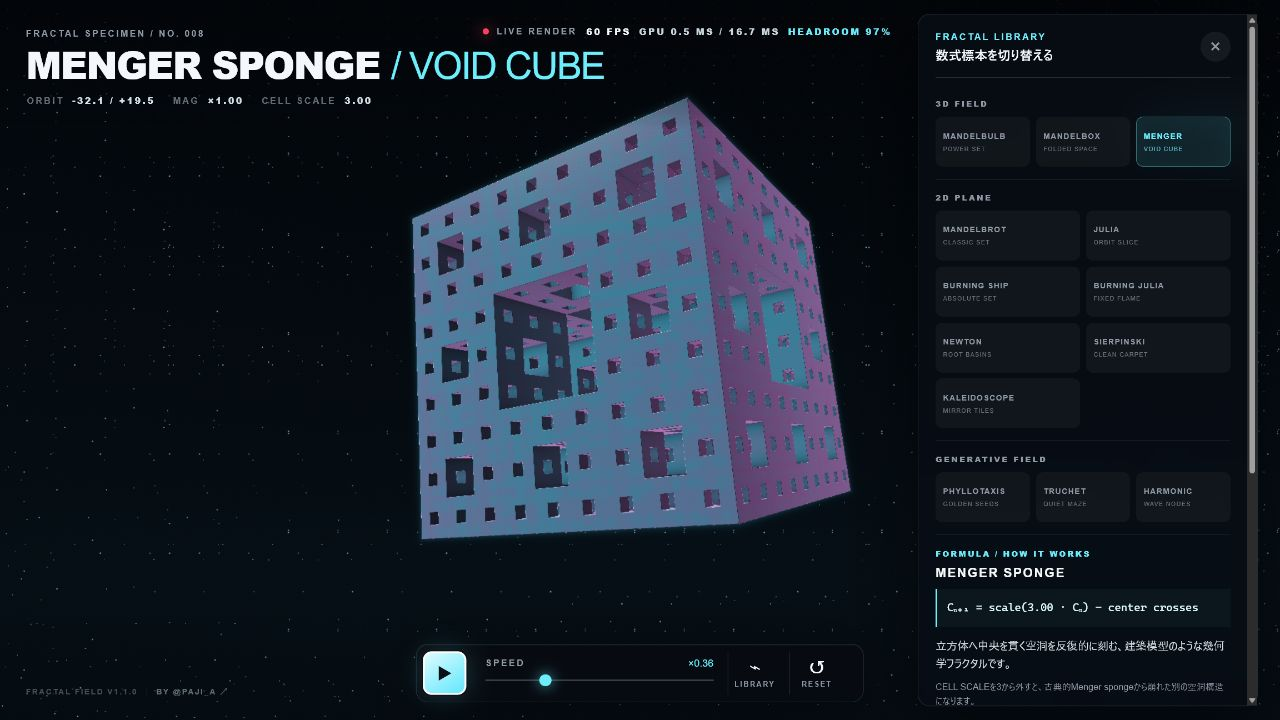
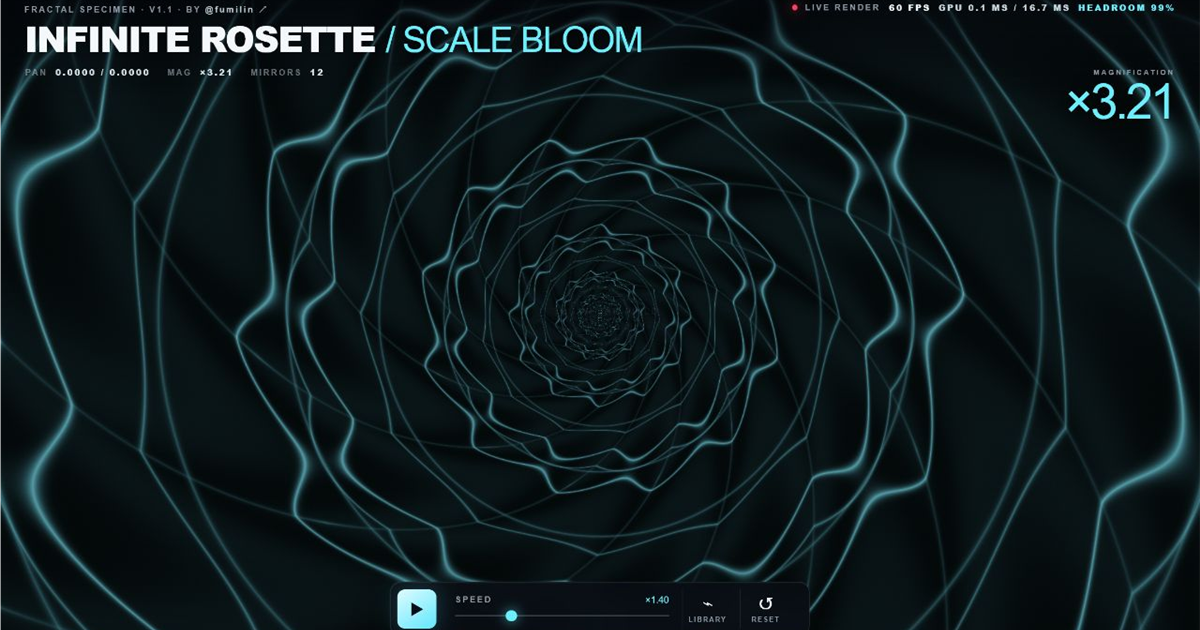
mandelbulb: 無限ズーム・カレイドスコープを追加
半径の対数を周期化することで、一定倍率ごとに構造が回転しながら再帰するINFINITE ROSETTE・CRYSTAL・SPIRALを追加した。ROSETTEを初期表示にし、無限ズーム系では再生中に自動で拡大する。描画倍率だけを周期内へ折り返してGPUの浮動小数点精度を保ち、表示倍率は増加し続ける。ページメタデータとOG画像も新しい目玉表示へ更新した。

node --check mandelbulb/app.js、git diff --check、実ブラウザで3新モードと既存Menger/Mandelbrot/Kaleidoscopeの切替を確認。ROSETTEは自動ズームで508,049倍まで描画が継続し、WebGLエラーなし・60 FPS・GPU 0.1 msを確認した。

diff --git a/mandelbulb/app.js b/mandelbulb/app.js
@@ -316,6 +316,54 @@ vec3 renderKaleidoscope(vec2 coordinate) {
   vec3 lines = calmGeometryColor(0.18 + min(geometry, 1.25) * 0.82);
   return background + lines;
 }
+float periodicLine(float value, float sharpness) {
+  return exp(-sharpness * abs(sin(3.14159265359 * value)));
+}
+
+vec3 renderInfiniteRosette(vec2 coordinate) {
+  float radius = max(length(coordinate), 0.0000001);
+  float logRadius = log(radius) / log(uShapeParams.y) - uShapeParams.w;
+  float angle = atan(coordinate.y, coordinate.x) + logRadius * uShapeParams.z;
+  float mirrors = uShapeParams.x;
+  float folded = abs(sin(angle * mirrors * 0.5));
+  float phase = fract(logRadius);
+  float petal = abs(cos(6.28318530718 * phase) - (0.18 + 0.72 * pow(folded, 1.35)));
+  float innerPetal = abs(cos(6.28318530718 * (phase + 0.22)) - (0.52 - 0.38 * folded));
+  float rings = periodicLine(logRadius * 2.0, 30.0);
+  float spokes = exp(-42.0 * folded) * (0.35 + 0.65 * periodicLine(logRadius - 0.14, 8.0));
+  float glow = exp(-34.0 * petal) + 0.55 * exp(-45.0 * innerPetal) + 0.32 * rings + 0.4 * spokes;
+  float facets = 0.5 + 0.5 * cos(6.28318530718 * phase + folded * 4.0);
+  return calmGeometryColor(0.014 + facets * 0.026 + min(glow, 1.65) * 0.68);
+}
+
+vec3 renderInfinitePrism(vec2 coordinate) {
+  float radius = max(length(coordinate), 0.0000001);
+  float logRadius = log(radius) / log(uShapeParams.y) - uShapeParams.w;
+  float angle = atan(coordinate.y, coordinate.x) + logRadius * uShapeParams.z;
+  float wedge = 6.28318530718 / uShapeParams.x;
+  float fold = abs(mod(angle + wedge * 0.5, wedge) - wedge * 0.5) / wedge;
+  float a = logRadius + fold * 2.0;
+  float b = logRadius - fold * 2.0;
+  float lattice = periodicLine(a, 32.0) + periodicLine(b, 32.0);
+  float crossbar = periodicLine(logRadius * 2.0 + fold, 38.0);
+  float chamber = 0.5 + 0.5 * cos(6.28318530718 * logRadius) * cos(6.28318530718 * fold);
+  return calmGeometryColor(0.012 + chamber * 0.032 + min(lattice + crossbar * 0.65, 1.8) * 0.64);
+}
+
+vec3 renderInfiniteSpiral(vec2 coordinate) {
+  float radius = max(length(coordinate), 0.0000001);
+  float logRadius = log(radius) / log(uShapeParams.y) - uShapeParams.w;
+  float angle = atan(coordinate.y, coordinate.x) / 6.28318530718;
+  float arms = uShapeParams.x;
+  float spiral = uShapeParams.z;
+  float clockwise = periodicLine(angle * arms + logRadius * spiral, 28.0);
+  float counter = periodicLine(angle * arms - logRadius * (spiral * 0.62 + 0.38), 34.0);
+  float beads = periodicLine(logRadius * 2.0 + sin(angle * 6.28318530718 * arms) * 0.18, 42.0);
+  float cells = 0.5 + 0.5 * cos(6.28318530718 * (logRadius + angle * arms));
+  float glow = clockwise + counter * 0.72 + beads * clockwise * 0.82;
+  return calmGeometryColor(0.013 + cells * 0.028 + min(glow, 1.75) * 0.66);
+}
+
 vec3 renderPhyllotaxis(vec2 coordinate) {
   float spacing = 0.082;
   float radius = length(coordinate);
@@ -381,6 +429,7 @@ vec3 renderPlane(vec2 screenPoint) {
   else if (uMode == 9) planeScale = 1.55;
   else if (uMode == 10) planeScale = 1.35;
   else if (uMode == 11) planeScale = 1.65;
+  else if (uMode >= 13) planeScale = 1.75;
   vec2 coordinate = uPan + screenPoint * (planeScale / uZoom);
   vec3 color;
   if (uMode == 6) color = renderNewton(coordinate);
@@ -389,6 +438,9 @@ vec3 renderPlane(vec2 screenPoint) {
   else if (uMode == 9) color = renderPhyllotaxis(coordinate);
   else if (uMode == 10) color = renderTruchet(coordinate);
   else if (uMode == 11) color = renderHarmonicField(coordinate);
+  else if (uMode == 13) color = renderInfiniteRosette(coordinate);
+  else if (uMode == 14) color = renderInfinitePrism(coordinate);
+  else if (uMode == 15) color = renderInfiniteSpiral(coordinate);
   else color = renderEscapeSet(coordinate);
   float gridGlow = (uMode <= 6 || uMode == 12) ? exp(-70.0 * min(abs(coordinate.x), abs(coordinate.y))) / max(1.0, uZoom * 0.04) : 0.0;
   return color + vec3(0.08, 0.22, 0.27) * gridGlow;
@@ -552,11 +604,26 @@ void main() {
       { key: "exponent", label: "EXPONENT", description: "折り返し後の累乗", min: 2, max: 8, step: 1, value: 2, digits: 0 },
       { key: "cReal", label: "C · REAL", description: "固定するcの実部", min: -1.5, max: 1.5, step: 0.00001, value: -0.4, digits: 5, signed: true },
       { key: "cImag", label: "C · IMAGINARY", description: "固定するcの虚部", min: -1.5, max: 1.5, step: 0.00001, value: -0.59, digits: 5, signed: true }
+    ] },
+    { title: "INFINITE ROSETTE", subtitle: "/ SCALE BLOOM", dimension: "2D", orbit: [0, 0], pan: [0, 0], formula: "", explanation: "半径を対数へ変換し、一定倍率ごとに同じ位相へ戻してから角度を鏡映します。拡大そのものが模様の反復になる無限ズーム・カレイドスコープです。", note: "ZOOM PERIOD倍するたびに同じ花形が次の階層として現れます。TWISTで階層間の回転量が変わります。", parameters: [
+      { key: "mirrors", label: "MIRRORS", description: "放射対称の枚数", min: 4, max: 32, step: 1, value: 12, digits: 0 },
+      { key: "zoomPeriod", label: "ZOOM PERIOD", description: "模様が戻る倍率", min: 1.35, max: 5, step: 0.05, value: 2, digits: 2, suffix: "×" },
+      { key: "twist", label: "TWIST", description: "階層ごとの回転", min: -3, max: 3, step: 0.05, value: 0.75, digits: 2, signed: true }
+    ] },
+    { title: "INFINITE CRYSTAL", subtitle: "/ PRISM TUNNEL", dimension: "2D", orbit: [0, 0], pan: [0, 0], formula: "", explanation: "対数半径と鏡映角を斜めに交差させ、拡大しても終わらない結晶格子を作ります。線の交点が次々に奥へ続く回廊になります。", note: "SIDESで結晶の面数、ZOOM PERIODで階層間隔、SHEARで回廊の傾きを調整できます。", parameters: [
+      { key: "sides", label: "SIDES", description: "結晶の面数", min: 3, max: 24, step: 1, value: 8, digits: 0 },
+      { key: "zoomPeriod", label: "ZOOM PERIOD", description: "格子が戻る倍率", min: 1.35, max: 5, step: 0.05, value: 2.35, digits: 2, suffix: "×" },
+      { key: "shear", label: "SHEAR", description: "階層のねじれ", min: -2.5, max: 2.5, step: 0.05, value: 0.35, digits: 2, signed: true }
+    ] },
+    { title: "INFINITE SPIRAL", subtitle: "/ ENDLESS CHAMBER", dimension: "2D", orbit: [0, 0], pan: [0, 0], formula: "", explanation: "角度と対数半径を結び、逆向きの螺旋を重ねたスケール周期パターンです。ズームすると螺旋が回転しながら同じ構造へ戻ります。", note: "ARMSで腕の本数、ZOOM PERIODで反復倍率、SPIRALで巻きの強さを変えられます。", parameters: [
+      { key: "arms", label: "ARMS", description: "螺旋の本数", min: 3, max: 24, step: 1, value: 10, digits: 0 },
+      { key: "zoomPeriod", label: "ZOOM PERIOD", description: "模様が戻る倍率", min: 1.35, max: 5, step: 0.05, value: 2, digits: 2, suffix: "×" },
+      { key: "spiral", label: "SPIRAL", description: "巻きの強さ", min: 0.25, max: 3, step: 0.05, value: 1.15, digits: 2 }
     ] }
   ];
 
   const parameterValues = modes.map(mode => Object.fromEntries(mode.parameters.map(parameter => [parameter.key, parameter.value])));
-  const DEFAULT_MODE = 2;
+  const DEFAULT_MODE = 13;
   const defaultMode = modes[DEFAULT_MODE];
 
   const state = {
@@ -597,7 +664,8 @@ void main() {
   function setMotion(active) {
     state.motion = active;
     $("#motion").textContent = active ? "Ⅱ" : "▶";
-    $("#motion").ariaLabel = active ? "自動回転を一時停止" : "自動回転を再開";
+    const action = state.mode >= 13 ? "自動ズーム" : "自動回転";
+    $("#motion").ariaLabel = active ? action + "を一時停止" : action + "を再開";
   }
 
   function formatParameter(parameter, value) {
@@ -628,6 +696,9 @@ void main() {
       case 10: return "tile(x,y, seed=" + values.seed.toFixed(1) + ") ∈ {↗, ↘}\nfine scale = coarse × " + values.layerRatio.toFixed(2);
       case 11: return "F(x,y) = sin(ax + " + values.warp.toFixed(2) + " sin(by))\n        + " + values.crossMix.toFixed(2) + " sin(cy − 0.85k sin(dx))";
       case 12: return "z₀ = pixel\nzₙ₊₁ = (|Re zₙ| + i|Im zₙ|)^" + values.exponent.toFixed(0) + "\n        + (" + complexText(values.cReal, values.cImag) + ")";
+      case 13: return "ρ = log(r) / log(" + values.zoomPeriod.toFixed(2) + ")\nφ = fract(ρ),  θ′ = θ + " + values.twist.toFixed(2) + "ρ\nK(" + values.zoomPeriod.toFixed(2) + "r, θ) = K(r, θ + " + values.twist.toFixed(2) + ")";
+      case 14: return "ρ = log(r) / log(" + values.zoomPeriod.toFixed(2) + ")\nα = fold(θ + " + values.shear.toFixed(2) + "ρ, 2π / " + values.sides.toFixed(0) + ")\nL = lines(ρ + 2α, ρ − 2α)";
+      case 15: return "ρ = log(r) / log(" + values.zoomPeriod.toFixed(2) + ")\nS± = " + values.arms.toFixed(0) + "θ ± " + values.spiral.toFixed(2) + "ρ\nK(r, θ) = lines(S+, S−)";
       default: return "";
     }
   }
@@ -683,7 +754,7 @@ void main() {
     state.targetLogZoom = 0;
     state.logZoom = 0;
     state.zoom = 1;
-    setMotion(mode.dimension === "3D");
+    setMotion(mode.dimension === "3D" || index >= 13);
 
     $("#fractalTitle").textContent = mode.title;
     $("#fractalSubtitle").textContent = mode.subtitle;
@@ -807,6 +878,8 @@ void main() {
 
     if (state.motion && state.mode < 3) {
       state.targetOrbitX += state.speed * delta * 0.18;
+    } else if (state.motion && state.mode >= 13) {
+      state.targetLogZoom += state.speed * delta * 0.7;
     }
     state.orbitX = damp(state.orbitX, state.targetOrbitX, 9.5, delta);
     state.orbitY = damp(state.orbitY, state.targetOrbitY, 9.5, delta);
@@ -819,9 +892,16 @@ void main() {
     gl.uniform1f(uniforms.uTime, now / 1000);
     gl.uniform1f(uniforms.uDistance, state.distance);
     const shapeValues = modes[state.mode].parameters.map(parameter => parameterValues[state.mode][parameter.key]);
-    gl.uniform4f(uniforms.uShapeParams, shapeValues[0] || 0, shapeValues[1] || 0, shapeValues[2] || 0, shapeValues[3] || 0);
+    let shaderZoom = state.zoom;
+    let zoomCycle = shapeValues[3] || 0;
+    if (state.mode >= 13) {
+      const periodLog = Math.log(shapeValues[1]);
+      zoomCycle = Math.floor(state.logZoom / periodLog);
+      shaderZoom = Math.exp(state.logZoom - zoomCycle * periodLog);
+    }
+    gl.uniform4f(uniforms.uShapeParams, shapeValues[0] || 0, shapeValues[1] || 0, shapeValues[2] || 0, zoomCycle);
     gl.uniform1f(uniforms.uExposure, state.exposure);
-    gl.uniform1f(uniforms.uZoom, state.zoom);
+    gl.uniform1f(uniforms.uZoom, shaderZoom);
     gl.uniform1i(uniforms.uIterations, state.iterations);
     gl.uniform1i(uniforms.uPalette, state.palette);
     gl.uniform1i(uniforms.uMode, state.mode);

diff --git a/mandelbulb/index.html b/mandelbulb/index.html
@@ -4,24 +4,24 @@
   <meta charset="utf-8">
   <meta name="viewport" content="width=device-width,initial-scale=1,viewport-fit=cover,user-scalable=no">
   <meta name="theme-color" content="#04070b">
-  <meta name="description" content="指先で探索するリアルタイムMenger spongeフラクタル">
-  <meta property="og:title" content="MENGER SPONGE / VOID CUBE">
-  <meta property="og:description" content="指先で探索するリアルタイム3Dフラクタルビューアー">
+  <meta name="description" content="ズームするほど咲き続けるリアルタイム無限カレイドスコープ">
+  <meta property="og:title" content="INFINITE ROSETTE / SCALE BLOOM">
+  <meta property="og:description" content="拡大そのものが模様になるリアルタイム無限ズーム・カレイドスコープ">
   <meta property="og:image" content="./og.png">
   <meta name="twitter:card" content="summary_large_image">
-  <title>MENGER SPONGE / VOID CUBE</title>
+  <title>INFINITE ROSETTE / SCALE BLOOM</title>
   <link rel="stylesheet" href="./style.css">
 </head>
 <body>
 <main class="app">
-  <canvas id="scene" aria-label="リアルタイムで描画されるMenger sponge"></canvas>
+  <canvas id="scene" aria-label="リアルタイムで描画される無限ズーム・カレイドスコープ"></canvas>
   <div class="grain" aria-hidden="true"></div>
   <header class="topbar">
-    <div><span class="eyebrow">FRACTAL SPECIMEN · v1.1 · BY <a href="https://x.com/fumilin" target="_blank" rel="me noopener noreferrer">@fumilin ↗</a></span><h1><span id="fractalTitle">MENGER SPONGE</span> <em id="fractalSubtitle">/ VOID CUBE</em></h1></div>
+    <div><span class="eyebrow">FRACTAL SPECIMEN · v1.1 · BY <a href="https://x.com/fumilin" target="_blank" rel="me noopener noreferrer">@fumilin ↗</a></span><h1><span id="fractalTitle">INFINITE ROSETTE</span> <em id="fractalSubtitle">/ SCALE BLOOM</em></h1></div>
     <div class="readout"><i></i><span id="status">INITIALIZING</span><b id="fps">-- FPS</b><b id="gpu">GPU -- ms / 16.7 ms</b><b id="headroom">HEADROOM --%</b></div>
   </header>
-  <section class="coords" aria-hidden="true"><span><i id="axisLabel">ORBIT</i> <b id="orbitOut">+00 / +00</b></span><span>MAG <b id="distOut">×1.00</b></span><span><i id="shapeLabel">CELL SCALE</i> <b id="powerOut">3.00</b></span></section><section class="zoomMeter" aria-live="polite"><span>MAGNIFICATION</span><b id="zoomBadge">×1.00</b></section>
-  <section class="hint" id="hint"><strong>✦</strong><div><b>TOUCH THE FIELD</b><small>ドラッグで回転 · ピンチで深く潜る</small></div></section>
+  <section class="coords" aria-hidden="true"><span><i id="axisLabel">PAN</i> <b id="orbitOut">0.0000 / 0.0000</b></span><span>MAG <b id="distOut">×1.00</b></span><span><i id="shapeLabel">MIRRORS</i> <b id="powerOut">12</b></span></section><section class="zoomMeter" aria-live="polite"><span>MAGNIFICATION</span><b id="zoomBadge">×1.00</b></section>
+  <section class="hint" id="hint"><strong>✦</strong><div><b>TOUCH THE FIELD</b><small>ドラッグで移動 · ピンチで深く潜る</small></div></section>
   <aside class="panel open" id="panel" aria-label="フラクタル設定">
     <header><div><span>FRACTAL LIBRARY</span><b>数式標本を切り替える</b></div><button id="closePanel" aria-label="設定を閉じる">×</button></header>
 <section class="modeSection" aria-label="3Dフラクタル">
@@ -29,7 +29,7 @@
   <div class="modeGrid">
     <button data-mode="0"><b>MANDELBULB</b><small>POWER SET</small></button>
     <button data-mode="1"><b>MANDELBOX</b><small>FOLDED SPACE</small></button>
-    <button class="active" data-mode="2"><b>MENGER</b><small>VOID CUBE</small></button>
+    <button data-mode="2"><b>MENGER</b><small>VOID CUBE</small></button>
   </div>
 </section>
 <section class="modeSection" aria-label="2Dフラクタル">
@@ -42,6 +42,14 @@
     <button data-mode="6"><b>NEWTON</b><small>ROOT BASINS</small></button>
     <button data-mode="7"><b>SIERPINSKI</b><small>CLEAN CARPET</small></button>
     <button data-mode="8"><b>KALEIDOSCOPE</b><small>MIRROR TILES</small></button>
+  </div>
+</section>
+<section class="modeSection" aria-label="無限ズームカレイドスコープ">
+  <span>INFINITE ZOOM</span>
+  <div class="modeGrid">
+    <button class="active" data-mode="13"><b>ROSETTE</b><small>SCALE BLOOM</small></button>
+    <button data-mode="14"><b>CRYSTAL</b><small>PRISM TUNNEL</small></button>
+    <button data-mode="15"><b>SPIRAL</b><small>ENDLESS CHAMBER</small></button>
   </div>
 </section>
 <section class="modeSection" aria-label="生成数学パターン">
@@ -66,7 +74,7 @@
     <div class="option"><span><b>RENDER SCALE</b><small>端末性能に合わせる</small></span><div class="segments"><button data-quality=".56">ECO</button><button class="active" data-quality=".78">BAL</button><button data-quality="1">MAX</button></div></div>
   </aside>
   <nav class="dock" aria-label="再生コントロール">
-    <button id="motion" class="play" aria-label="自動回転を一時停止">Ⅱ</button>
+    <button id="motion" class="play" aria-label="自動ズームを一時停止">Ⅱ</button>
     <label class="speed"><span>SPEED</span><output id="speedValue">×0.36</output><input id="speed" type="range" min="0" max="1.4" step=".05" value=".36"></label>
     <button id="openPanel" class="dockButton" aria-label="フラクタルと数式メニューを開く"><b>⌁</b><small>LIBRARY</small></button>
     <button id="reset" class="dockButton" aria-label="視点をリセット"><b>↺</b><small>RESET</small></button>
